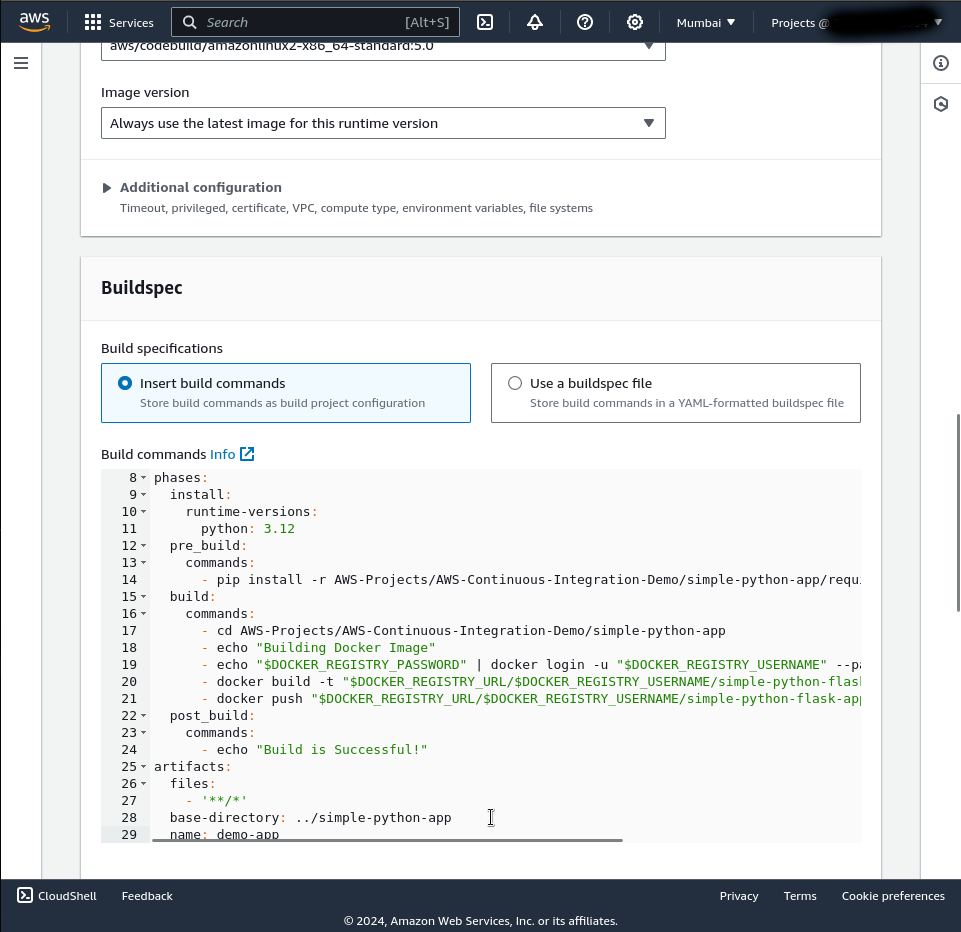
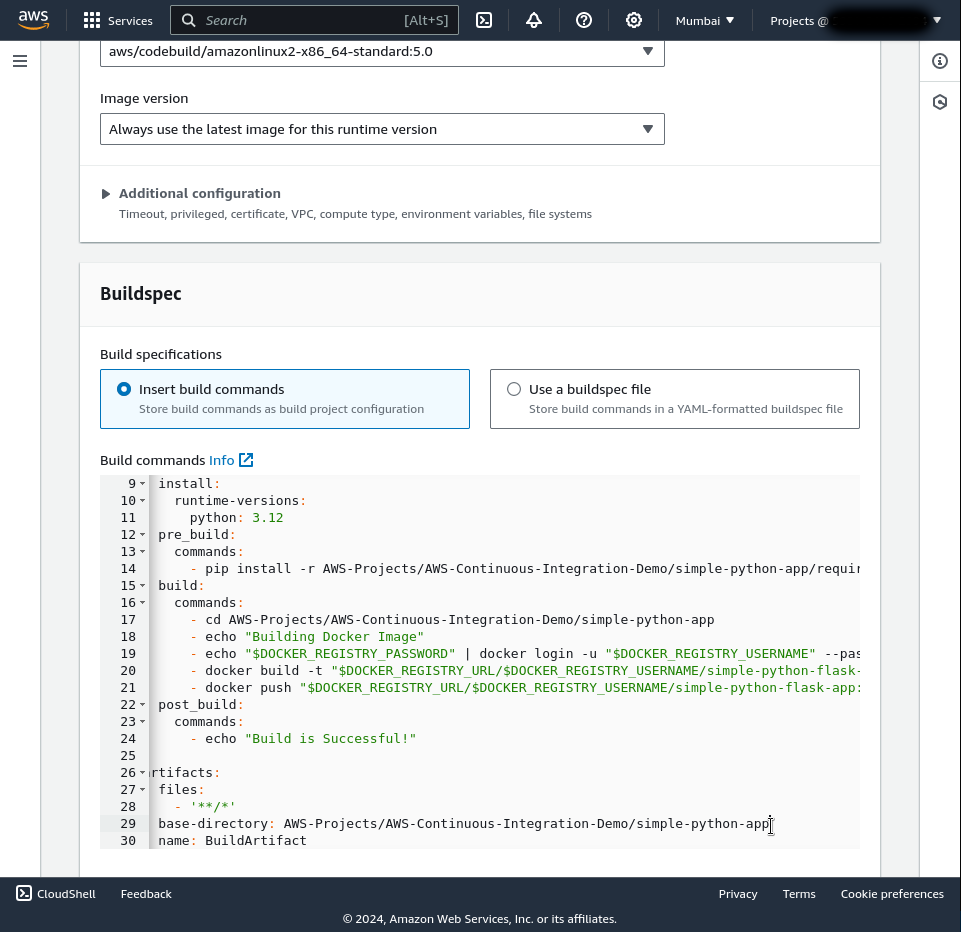
Final commit (maybe)

diff --git a/AWS-Projects/AWS-Continuous-Integration-Demo/README.md b/AWS-Projects/AWS-Continuous-Integration-Demo/README.md
@@ -207,6 +207,11 @@ Congratulations! You have learned to use CodeDeploy pretty well! Give yourself a
 ## Create an AWS CodePipeline
 In this step, we'll create an AWS CodePipeline to automate the continuous integration process for our Python application. AWS CodePipeline will orchestrate the flow of changes from our GitHub repository to the deployment of our application. Let's go ahead and set it up:
 
+This is a flow chart for our pipeline:
+<img src="readme/CICD.png">
+
+### Pipeline uses AWS CodeBuild to build our Python application based on the specifications we define. We will push this application on docker hub. There is nothing you need to do manually just setup the Codebuild and it will take care of building and packaging our application for deployment. Then, the Pipeline configure CodeDeploy to take our code from docker hub and deploy the simple-python-flask application on the EC2 instance. I have done both CodeBuild and CodeDeploy projects individually, but AWS Pipeline combines all of it and automates all the stuff! And whenever we make an update to our Github repo the Pipelines roll back automatically!
+
 - Go to the AWS Management Console and navigate to the AWS CodePipeline service.
 <img src="readme/Pipeline1.png" />
 
@@ -232,13 +237,16 @@ In this step, we'll create an AWS CodePipeline to automate the continuous integr
 - Select your repository.
 - Choose the branch you want to use for your pipeline.
 <img src="readme/Pipeline13.png" />
+- In Trigger type, choose "No filter" for now. Then click on Next.
 <img src="readme/Pipeline14.png" />
-In Trigger type, choose "No filter" for now.
 
-- In the build stage, select "AWS CodeBuild" as the build provider.
+
+- In the build stage, Select "Skip build stage" since you're using a pre-existing CodeBuild project.
 <img src="readme/Pipeline15.png" />
 
-- [Create a new CodeBuild project](https://www.linkedin.com/pulse/configuring-aws-codebuild-build-our-application-pushing-yash-kumar-rbr2c/) by clicking on the "Create project" button. 
+- [Create a new CodeBuild project](https://www.linkedin.com/pulse/configuring-aws-codebuild-build-our-application-pushing-yash-kumar-rbr2c/) (Make sure to do neccessary changes in your buildspec file.) by clicking on the "Create project" button. 
+<img src="readme/Buildspecupdate.png" />
+
 - Configure the CodeBuild project with the necessary settings for your Python application, such as the build environment,  build commands, and artifacts.
 - Save the CodeBuild project and go back to CodePipeline.
 - Or if you have an already built codebuild, use it from the dropdown list. Then, click Next.
@@ -246,23 +254,40 @@ In Trigger type, choose "No filter" for now.
 
 - Continue configuring the pipeline stages, such as deploying your application using AWS Elastic Beanstalk or any other suitable deployment option.
 - We are choosing AWS CodeDeploy for now.
-(Make sure to do neccessary changes in your buildspec file.) 
-<img src="readme/Buildspecupdate.png" />
+- You can refer this article to create [CodeDeploy application](https://www.linkedin.com/pulse/configuring-aws-codedeploy-yash-kumar-qqfhf/?trackingId=Qpt5LoA%2FQceV3l3q3Ot0Sw%3D%3D)
+ 
 <img src="readme/Pipeline17.png" />
 <img src="readme/Pipeline18.png" />
 
 - Review the pipeline configuration and click on the "Create pipeline" button to create your AWS CodePipeline.
 <img src="readme/Pipeline19.png" />
 
-Awesome job! We now have our pipeline ready to roll. Let's move on to the next step to set up AWS CodeBuild.
+- Awesome job! We now have our pipeline ready to roll.
 
+- Your pipeline is successfully created and as you can see all stages have passed!
+<img src="readme/Pipeline20.png" />
+<img src="readme/final1.png">
+<img src="readme/final2.png">
+<img src="readme/final3.png">
 
-## Trigger the CI Process
+### [Note: There can be multiple instances when your pipeline fails! Don't dishearten yourself, keep trying and you will succedd! I myself donno how many times I failed when I was working on this project, there was a problem with my codedepploy stage and it took me days to solve it! I got frustrated too but I knew I could solve it so I kept trying :) Just don't give up]
 
-In this final step, we'll trigger the CI process by making a change to our GitHub repository. Let's see how it works:
+## Tips: 
+- Make sure your EC2 instance is up and running.
+- Inside EC2 make sure CodeDeploy agent is running.
+- AWS Pipeline usese S3 to store artifacts, make sure EC2, CodeDeploy, CodeBuild, CodePipeline all have access to S3 (Use IAM roles to do it).
+- Your Buildspec and Appspec file should be properly written. 
+- Try to use a fresh Github repository for your project for minimum errors and ease with dealing with file paths.
+- If you still face any problem feel free to [contact me](https://www.linkedin.com/in/yasholo), I will try my best to help you solve your errors :)
+
+## Trigger the Pipeline
+
+In this final step, we'll trigger the Pipeline by making a change to our GitHub repository. Let's see how it works:
 
 - Go to your GitHub repository and make a change to your Python application's source code. It could be a bug fix, a new feature, or any other change you want to introduce.
 - Commit and push your changes to the branch configured in your AWS CodePipeline.
 - Head over to the AWS CodePipeline console and navigate to your pipeline.
 - You should see the pipeline automatically kick off as soon as it detects the changes in your repository.
 - Sit back and relax while AWS CodePipeline takes care of the rest. It will fetch the latest code, trigger the build process with AWS CodeBuild, and deploy the application if you configured the deployment stage.
+
+# HURRAY! YOU DID IT! WE DID IT!
